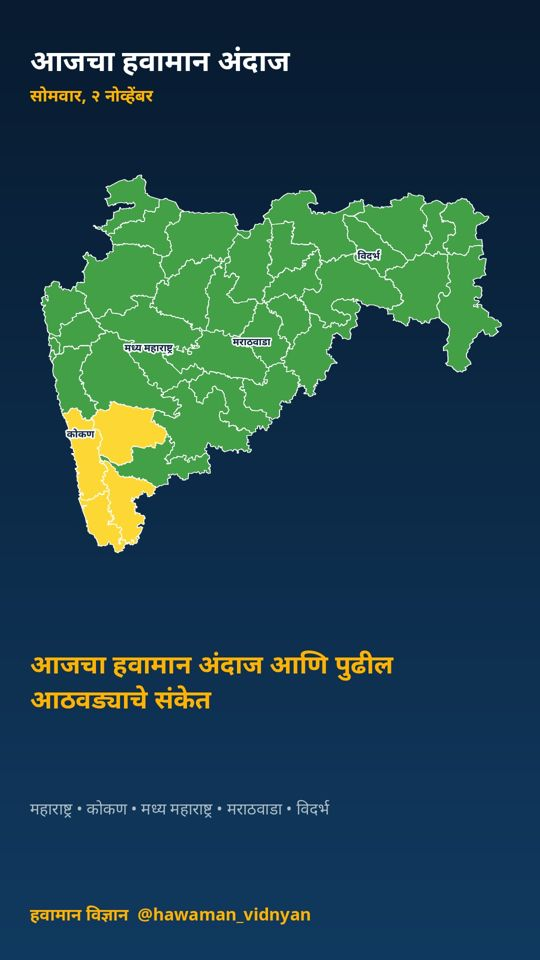
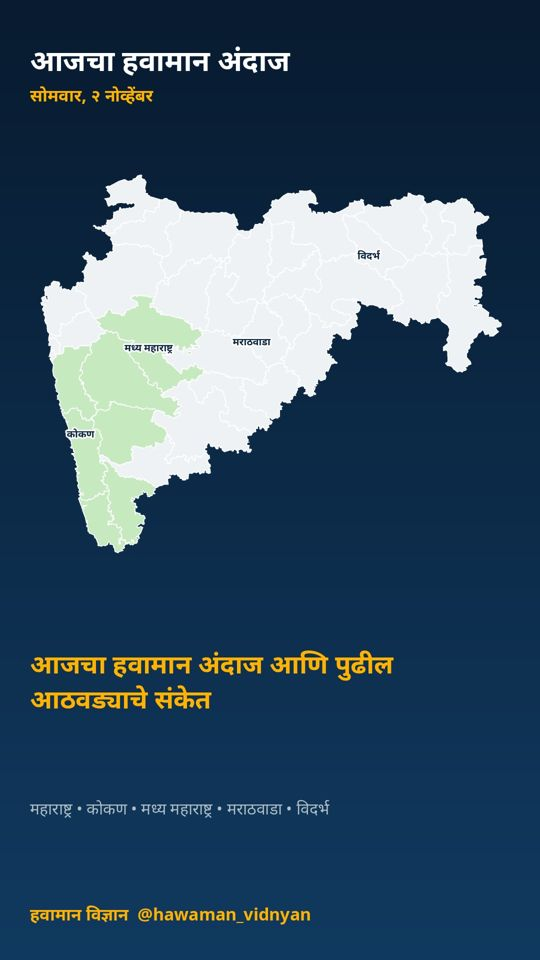
Alert 2026-11-02 (hawaman-vidnyan)

Changed region(s): [[0.0593, 0.1875, 0.9185, 0.5938]]

diff --git a/docs/alerts/2026-11-02-hawaman/index.html b/docs/alerts/2026-11-02-hawaman/index.html
@@ -12,11 +12,11 @@
     })();
   </script>
   <title data-mr="महाराष्ट्र हवामान | सोमवार, २ नोव्हें — हवामान इशारा">महाराष्ट्र हवामान | सोमवार, २ नोव्हें — Weather alert</title>
-  <meta name="description" content="Yellow alert: महाराष्ट्र हवामान | सोमवार, २ नोव्हें (2 November 2026)">
+  <meta name="description" content="Information analysis: महाराष्ट्र हवामान | सोमवार, २ नोव्हें (2 November 2026)">
   <link rel="preconnect" href="https://fonts.googleapis.com">
   <link rel="preconnect" href="https://fonts.gstatic.com" crossorigin>
   <link href="https://fonts.googleapis.com/css2?family=Mukta:wght@400;500;600;700&family=Noto+Serif+Devanagari:wght@600;700&display=swap" rel="stylesheet">
-  <link rel="stylesheet" href="../../static/css/style.css?v=5c94c5da">
+  <link rel="stylesheet" href="../../static/css/style.css?v=227c4792">
 </head>
 <body>
   <header class="site-header">
@@ -45,12 +45,12 @@
   <main class="wrap main">
 <article class="article">
   <p class="muted"><a href="../../alerts/index.html"><span class="l-en">← All alerts</span><span class="l-mr" lang="mr">← सर्व इशारे</span></a></p>
-  <div class="alert-banner level-yellow">
-    <span class="badge badge-yellow"><span class="l-en">Yellow alert · Be updated</span><span class="l-mr" lang="mr">पिवळा इशारा · अद्ययावत राहा</span></span>
+  <div class="alert-banner level-info">
+    <span class="badge badge-info"><span class="l-en">Information · analysis</span><span class="l-mr" lang="mr">माहितीपर विश्लेषण</span></span>
     <h1>महाराष्ट्र हवामान | सोमवार, २ नोव्हें</h1>
     <dl class="alert-facts">
       <div><dt><span class="l-en">Date</span><span class="l-mr" lang="mr">दिनांक</span></dt><dd><time datetime="2026-11-02"><span class="l-en">Monday, 2 November 2026</span><span class="l-mr" lang="mr">सोमवार, २ नोव्हेंबर २०२६</span></time></dd></div>
-<div><dt><span class="l-en">Valid</span><span class="l-mr" lang="mr">वैधता</span></dt><dd><span class="l-en">2 November 2026 — Short-range analysis (1–3 days)</span><span class="l-mr" lang="mr">२ नोव्हेंबर २०२६ — अल्पकालीन विश्लेषण (१–३ दिवस)</span></dd></div><div><dt><span class="l-en">Districts / regions</span><span class="l-mr" lang="mr">जिल्हे/भाग</span></dt><dd><span class="l-en">Sindhudurg</span><span class="l-mr" lang="mr">सिंधुदुर्ग</span>, <span class="l-en">Kolhapur</span><span class="l-mr" lang="mr">कोल्हापूर</span>, <span class="l-en">Ratnagiri</span><span class="l-mr" lang="mr">रत्नागिरी</span>, <span class="l-en">Satara</span><span class="l-mr" lang="mr">सातारा</span></dd></div><div><dt><span class="l-en">Hazards</span><span class="l-mr" lang="mr">धोके</span></dt><dd><span class="l-en">Thunderstorm &amp; lightning</span><span class="l-mr" lang="mr">मेघगर्जना व विजा</span>, <span class="l-en">Strong surface winds</span><span class="l-mr" lang="mr">सोसाट्याचा वारा</span></dd></div>    </dl>
+<div><dt><span class="l-en">Valid</span><span class="l-mr" lang="mr">वैधता</span></dt><dd><span class="l-en">2 November 2026 — Short-range analysis (1–3 days)</span><span class="l-mr" lang="mr">२ नोव्हेंबर २०२६ — अल्पकालीन विश्लेषण (१–३ दिवस)</span></dd></div><div><dt><span class="l-en">Districts / regions</span><span class="l-mr" lang="mr">जिल्हे/भाग</span></dt><dd><span class="l-en">Konkan</span><span class="l-mr" lang="mr">कोकण</span>, <span class="l-en">Madhya Maharashtra</span><span class="l-mr" lang="mr">मध्य महाराष्ट्र</span>, <span class="l-en">Marathwada</span><span class="l-mr" lang="mr">मराठवाडा</span>, <span class="l-en">Vidarbha</span><span class="l-mr" lang="mr">विदर्भ</span></dd></div>    </dl>
   </div>
   <section class="reel">
     <h2><span class="l-en">Today&#39;s visual analysis</span><span class="l-mr" lang="mr">आजचे दृश्य विश्लेषण</span> <span class="muted"><span class="l-en">(reel slides)</span><span class="l-mr" lang="mr">(रील स्लाइड्स)</span></span></h2>
@@ -100,9 +100,10 @@
     </div>
 </details>  </section>
   <p class="lang-note l-en">This page is written in Marathi.</p><div class="prose" lang="mr"><p><strong>अल्पकालीन विश्लेषण (१–३ दिवस)</strong> · वैयक्तिक विश्लेषणावर आधारित</p>
-<p>🟡 सिंधुदुर्ग, रत्नागिरी: सोसाट्याचा वारा व मेघगर्जना व विजा<br />
-🟡 कोल्हापूर, सातारा: मेघगर्जना व विजा<br />
-⛈ कोकण, म. महाराष्ट्र: काही ठिकाणी मेघगर्जनेसह हलका पाऊस<br />
+<p>🌦 कोकण: काही ठिकाणी हलका पाऊस<br />
+🌦 म. महाराष्ट्र: काही ठिकाणी हलका पाऊस<br />
+☀ मराठवाडा: कोरडे हवामान<br />
+☀ विदर्भ: कोरडे हवामान<br />
 🌀 पश्चिम-मध्य बंगालच्या उपसागरात चक्रीवादळसदृश प्रणाली आहे</p>
 <p><img src="../../static/images/alerts/2026-11-02/1_card.jpg" alt="अल्पकालीन विश्लेषण (१–३ दिवस)" /></p>
 <h3>हवामानामागचे कारण</h3>
@@ -111,20 +112,15 @@
 • पूर्व-मध्य अरबी समुद्रात कमी दाबाचे क्षेत्र आहे</p>
 <p>• ईशान्य भारतावर ३ नोव्हें दरम्यान कमी दाबाचे क्षेत्र तयार होण्याचे संकेत<br />
 • महाराष्ट्रावर सुमारे १.५ किमी उंचीवर पूर्वेकडून वारे</p>
-<p>🏙 आज शहरांचे कमाल/किमान तापमान (हवामान विभाग):<br />
-मुंबई ३४/२२, पुणे ३३/२२, नागपूर ३२/१९</p>
 <p>📌 निरीक्षणे:<br />
-🌡 काल सर्वाधिक: अमरावती ३४.६°<br />
-❄ नीचांकी: नागपूर १८.६°<br />
-☔ काल सर्वाधिक पाऊस: पुणे ४१ मिमी<br />
-🛰 उपग्रह: मध्य महाराष्ट्र भागावर ढगाळ आकाश; उर्वरित राज्यात आकाश बहुतांश निरभ्र (कोकण २८%, मध्य महाराष्ट्र ३४%, मराठवाडा २१%, विदर्भ ८% ढगाच्छादन)</p>
+🛰 उपग्रह: कोकण, मध्य महाराष्ट्र भागावर ढगाळ आकाश; उर्वरित राज्यात आकाश बहुतांश निरभ्र (कोकण ३३%, मध्य महाराष्ट्र ५३%, मराठवाडा २१%, विदर्भ ७% ढगाच्छादन)</p>
 <p>ℹ स्रोत: भारतीय हवामान विभाग; युरोपियन (ECMWF), अमेरिकन (GFS), जर्मन (ICON) मॉडेल<br />
 ⚠ हे मॉडेल-आधारित विश्लेषण आहे. अधिकृत इशाऱ्यांसाठी भारतीय हवामान विभाग (IMD) व स्थानिक प्रशासनाच्या सूचना पाहा.</p>
 <p><img src="../../static/images/alerts/2026-11-02/2_circulation_chart.jpg" alt="वाऱ्यांची स्थिती व दाब प्रणाली" /></p>
 <p><img src="../../static/images/alerts/2026-11-02/3_satellite_insat.jpg" alt="वाऱ्यांची स्थिती व दाब प्रणाली" /></p>
 <h2>सविस्तर हवामान विश्लेषण</h2>
 <h3>अल्पकालीन विश्लेषण (१–३ दिवस)</h3>
-<p>नमस्कार! आज सोमवार, २ नोव्हेंबर. पाहूया महाराष्ट्राचे हवामान विश्लेषण. भारतीय हवामान विभागाने सिंधुदुर्ग, रत्नागिरी जिल्ह्यांसाठी सोसाट्याचा वारा व मेघगर्जना व विजा संदर्भात पिवळा इशारा दिला आहे. भारतीय हवामान विभागाने कोल्हापूर, सातारा जिल्ह्यांसाठी मेघगर्जना व विजा संदर्भात पिवळा इशारा दिला आहे. कोकण: काही ठिकाणी मेघगर्जनेसह हलका पाऊस. कमाल तापमान सुमारे ३४ आणि किमान २२ अंश सेल्सिअस. मध्य महाराष्ट्र: काही ठिकाणी मेघगर्जनेसह हलका पाऊस. कमाल तापमान सुमारे ३३ आणि किमान २१ अंश सेल्सिअस. मराठवाडा: कोरडे हवामान. कमाल तापमान सुमारे ३२ आणि किमान २१ अंश सेल्सिअस. विदर्भ: कोरडे हवामान. कमाल तापमान सुमारे ३३ आणि किमान २० अंश सेल्सिअस. काल राज्यातील सर्वाधिक तापमान अमरावती येथे ३४.६ अंश (सरासरीपेक्षा ३.२° जास्त) नोंदले गेले. आता पाहूया हवामानामागचे कारण, म्हणजेच वाऱ्यांची स्थिती. पश्चिम-मध्य बंगालच्या उपसागरात चक्रीवादळसदृश प्रणाली आहे; प्रणाली पश्चिमेकडे (महाराष्ट्र) सरकण्याची शक्यता. या प्रणालीमुळे राज्यात ढगाळ हवामान व पावसाची शक्यता वाढू शकते. पूर्व-मध्य अरबी समुद्रात कमी दाबाचे क्षेत्र आहे. ईशान्य भारतावर ३ नोव्हें दरम्यान कमी दाबाचे क्षेत्र तयार होण्याचे संकेत. महाराष्ट्रावर सुमारे १.५ किमी उंचीवर पूर्वेकडून वारे.</p>
+<p>नमस्कार! आज सोमवार, २ नोव्हेंबर. पाहूया महाराष्ट्राचे हवामान विश्लेषण. कोकण: काही ठिकाणी हलका पाऊस. कमाल तापमान सुमारे ३४ आणि किमान २२ अंश सेल्सिअस. मध्य महाराष्ट्र: काही ठिकाणी हलका पाऊस. कमाल तापमान सुमारे ३३ आणि किमान २१ अंश सेल्सिअस. मराठवाडा: कोरडे हवामान. कमाल तापमान सुमारे ३२ आणि किमान २१ अंश सेल्सिअस. विदर्भ: कोरडे हवामान. कमाल तापमान सुमारे ३३ आणि किमान २० अंश सेल्सिअस. आता पाहूया हवामानामागचे कारण, म्हणजेच वाऱ्यांची स्थिती. पश्चिम-मध्य बंगालच्या उपसागरात चक्रीवादळसदृश प्रणाली आहे; प्रणाली पश्चिमेकडे (महाराष्ट्र) सरकण्याची शक्यता. या प्रणालीमुळे राज्यात ढगाळ हवामान व पावसाची शक्यता वाढू शकते. पूर्व-मध्य अरबी समुद्रात कमी दाबाचे क्षेत्र आहे. ईशान्य भारतावर ३ नोव्हें दरम्यान कमी दाबाचे क्षेत्र तयार होण्याचे संकेत. महाराष्ट्रावर सुमारे १.५ किमी उंचीवर पूर्वेकडून वारे.</p>
 <h3>मध्यम कालावधी विश्लेषण (४–१० दिवस)</h3>
 <p>आता पुढील आठवड्याचा, म्हणजे ५–११ नोव्हें या काळाचे विश्लेषण. युरोपियन हवामान केंद्राच्या ५१ वेगवेगळ्या संभाव्य मॉडेल-परिणामांवर आधारित. कोकण: पावसाची शक्यता कमी. मध्य महाराष्ट्र: पावसाची शक्यता कमी. मराठवाडा: पावसाची शक्यता कमी. विदर्भ: मुख्यतः कोरडे.  किमान तापमान २° ने घटेल; पहाटे गारवा वाढेल. या काळातील वाऱ्यांची स्थिती: ५ नोव्हें रोजी महाराष्ट्रावर असलेली कमी दाबाचे क्षेत्र नैऋत्येकडे (पूर्व-मध्य अरबी समुद्र) सरकण्याची शक्यता. या प्रणालीमुळे राज्यात ढगाळ हवामान व पावसाची शक्यता वाढू शकते. महाराष्ट्रावर १० नोव्हें दरम्यान कमी दाबाचे क्षेत्र तयार होण्याचे संकेत; प्रणाली नैऋत्येकडे (पूर्व-मध्य अरबी समुद्र) सरकण्याची शक्यता. नैऋत्य बंगालच्या उपसागरात ९ नोव्हें दरम्यान कमी दाबाचे क्षेत्र तयार होण्याचे संकेत; प्रणाली ईशान्येकडे (वायव्य बंगालचा उपसागर) सरकण्याची शक्यता. महाराष्ट्रावर सुमारे १.५ किमी उंचीवर ईशान्येकडून कोरडे वारे; हवेच्या मधल्या थरात आर्द्रता फक्त ३०% असल्याने ढग फारसे तयार होत नाहीत. पुढील काळात हवेच्या मधल्या थरातील बाष्प कमी होत आहे.</p>
 <h3>विस्तारित विश्लेषण (२–४ आठवडे)</h3>

diff --git a/docs/index.html b/docs/index.html
@@ -16,7 +16,7 @@
   <link rel="preconnect" href="https://fonts.googleapis.com">
   <link rel="preconnect" href="https://fonts.gstatic.com" crossorigin>
   <link href="https://fonts.googleapis.com/css2?family=Mukta:wght@400;500;600;700&family=Noto+Serif+Devanagari:wght@600;700&display=swap" rel="stylesheet">
-  <link rel="stylesheet" href="./static/css/style.css?v=5c94c5da">
+  <link rel="stylesheet" href="./static/css/style.css?v=227c4792">
 </head>
 <body>
   <header class="site-header">
@@ -45,7 +45,7 @@
   <main class="wrap main">
 <section class="hero">
   <div class="hero-photo">
-    <img src="./static/images/profile.jpg?v=5c94c5da" alt="Arvind Pagire" width="200" height="200">
+    <img src="./static/images/profile.jpg?v=227c4792" alt="Arvind Pagire" width="200" height="200">
   </div>
   <div class="hero-text">
     <p class="eyebrow"><span class="l-en">Meteorologist · AI-based weather prediction · Hybrid modelling</span><span class="l-mr" lang="mr">हवामानशास्त्रज्ञ · AI-आधारित हवामान अंदाज · हायब्रिड मॉडेलिंग</span></p>
@@ -73,13 +73,13 @@
   </div>
   <p class="imd-note"><span class="l-en">Disclaimer: for weather alerts and warnings I follow the India Meteorological Department (IMD). The alert colour and warnings shown here are taken from IMD&#39;s official district-wise warnings; the rest is my own analysis for information only. For official forecasts and warnings, please follow</span><span class="l-mr" lang="mr">अस्वीकरण: हवामान इशाऱ्यांसाठी मी भारतीय हवामान विभागाचे (IMD) अनुसरण करतो. येथे दाखवलेला इशाऱ्याचा रंग व इशारे हे IMD च्या अधिकृत जिल्हानिहाय इशाऱ्यांवरून घेतले आहेत; उर्वरित माहिती हे केवळ माहितीसाठी केलेले माझे वैयक्तिक विश्लेषण आहे. अधिकृत अंदाज व इशाऱ्यांसाठी कृपया</span>
     <a href="https://mausam.imd.gov.in" rel="noopener" target="_blank"><span class="l-en">IMD (mausam.imd.gov.in)</span><span class="l-mr" lang="mr">भारतीय हवामान विभागाचे (mausam.imd.gov.in)</span></a><span class="l-en">.</span><span class="l-mr" lang="mr"> अनुसरण करा.</span></p>
-    <article class="alert-card level-yellow">
+    <article class="alert-card level-info">
   <div class="alert-card-top">
-    <span class="badge badge-yellow"><span class="l-en">Yellow alert · Be updated</span><span class="l-mr" lang="mr">पिवळा इशारा · अद्ययावत राहा</span></span>
+    <span class="badge badge-info"><span class="l-en">Information · analysis</span><span class="l-mr" lang="mr">माहितीपर विश्लेषण</span></span>
     <time datetime="2026-11-02" class="muted"><span class="l-en">Monday, 2 November 2026</span><span class="l-mr" lang="mr">सोमवार, २ नोव्हेंबर २०२६</span></time>
   </div>
   <h3><a href="./alerts/2026-11-02-hawaman/index.html">महाराष्ट्र हवामान | सोमवार, २ नोव्हें</a></h3>
-<p class="alert-meta"><strong><span class="l-en">Districts / regions:</span><span class="l-mr" lang="mr">जिल्हे/भाग:</span></strong> <span class="l-en">Sindhudurg</span><span class="l-mr" lang="mr">सिंधुदुर्ग</span>, <span class="l-en">Kolhapur</span><span class="l-mr" lang="mr">कोल्हापूर</span>, <span class="l-en">Ratnagiri</span><span class="l-mr" lang="mr">रत्नागिरी</span>, <span class="l-en">Satara</span><span class="l-mr" lang="mr">सातारा</span></p><p class="alert-meta"><strong><span class="l-en">Hazards:</span><span class="l-mr" lang="mr">धोके:</span></strong> <span class="l-en">Thunderstorm &amp; lightning</span><span class="l-mr" lang="mr">मेघगर्जना व विजा</span>, <span class="l-en">Strong surface winds</span><span class="l-mr" lang="mr">सोसाट्याचा वारा</span></p><p class="alert-meta"><strong><span class="l-en">Valid:</span><span class="l-mr" lang="mr">वैधता:</span></strong> <span class="l-en">2 November 2026 — Short-range analysis (1–3 days)</span><span class="l-mr" lang="mr">२ नोव्हेंबर २०२६ — अल्पकालीन विश्लेषण (१–३ दिवस)</span></p></article>
+<p class="alert-meta"><strong><span class="l-en">Districts / regions:</span><span class="l-mr" lang="mr">जिल्हे/भाग:</span></strong> <span class="l-en">Konkan</span><span class="l-mr" lang="mr">कोकण</span>, <span class="l-en">Madhya Maharashtra</span><span class="l-mr" lang="mr">मध्य महाराष्ट्र</span>, <span class="l-en">Marathwada</span><span class="l-mr" lang="mr">मराठवाडा</span>, <span class="l-en">Vidarbha</span><span class="l-mr" lang="mr">विदर्भ</span></p><p class="alert-meta"><strong><span class="l-en">Valid:</span><span class="l-mr" lang="mr">वैधता:</span></strong> <span class="l-en">2 November 2026 — Short-range analysis (1–3 days)</span><span class="l-mr" lang="mr">२ नोव्हेंबर २०२६ — अल्पकालीन विश्लेषण (१–३ दिवस)</span></p></article>
     <p class="stale-note muted" data-date="2026-11-02" hidden>
       <span class="l-en">Note: this alert is from 2 November 2026; today&#39;s alert has not been published yet.</span><span class="l-mr" lang="mr">टीप: हा इशारा २ नोव्हेंबर २०२६ रोजीचा आहे; आजचा इशारा अद्याप प्रसिद्ध झालेला नाही.</span></p>
   <p class="follow"><a href="https://x.com/arvind_weathLAB" rel="noopener" target="_blank">𝕏 <span class="l-en">Daily Maharashtra weather updates:</span><span class="l-mr" lang="mr">दैनंदिन महाराष्ट्र हवामान अपडेट:</span> @arvind_weathLAB</a></p>

diff --git a/docs/alerts/index.html b/docs/alerts/index.html
@@ -16,7 +16,7 @@
   <link rel="preconnect" href="https://fonts.googleapis.com">
   <link rel="preconnect" href="https://fonts.gstatic.com" crossorigin>
   <link href="https://fonts.googleapis.com/css2?family=Mukta:wght@400;500;600;700&family=Noto+Serif+Devanagari:wght@600;700&display=swap" rel="stylesheet">
-  <link rel="stylesheet" href="../static/css/style.css?v=5c94c5da">
+  <link rel="stylesheet" href="../static/css/style.css?v=227c4792">
 </head>
 <body>
   <header class="site-header">
@@ -69,13 +69,13 @@
 </section>
 
 <div class="stack">
-<article class="alert-card level-yellow">
+<article class="alert-card level-info">
   <div class="alert-card-top">
-    <span class="badge badge-yellow"><span class="l-en">Yellow alert · Be updated</span><span class="l-mr" lang="mr">पिवळा इशारा · अद्ययावत राहा</span></span>
+    <span class="badge badge-info"><span class="l-en">Information · analysis</span><span class="l-mr" lang="mr">माहितीपर विश्लेषण</span></span>
     <time datetime="2026-11-02" class="muted"><span class="l-en">Monday, 2 November 2026</span><span class="l-mr" lang="mr">सोमवार, २ नोव्हेंबर २०२६</span></time>
   </div>
   <h3><a href="../alerts/2026-11-02-hawaman/index.html">महाराष्ट्र हवामान | सोमवार, २ नोव्हें</a></h3>
-<p class="alert-meta"><strong><span class="l-en">Districts / regions:</span><span class="l-mr" lang="mr">जिल्हे/भाग:</span></strong> <span class="l-en">Sindhudurg</span><span class="l-mr" lang="mr">सिंधुदुर्ग</span>, <span class="l-en">Kolhapur</span><span class="l-mr" lang="mr">कोल्हापूर</span>, <span class="l-en">Ratnagiri</span><span class="l-mr" lang="mr">रत्नागिरी</span>, <span class="l-en">Satara</span><span class="l-mr" lang="mr">सातारा</span></p><p class="alert-meta"><strong><span class="l-en">Hazards:</span><span class="l-mr" lang="mr">धोके:</span></strong> <span class="l-en">Thunderstorm &amp; lightning</span><span class="l-mr" lang="mr">मेघगर्जना व विजा</span>, <span class="l-en">Strong surface winds</span><span class="l-mr" lang="mr">सोसाट्याचा वारा</span></p><p class="alert-meta"><strong><span class="l-en">Valid:</span><span class="l-mr" lang="mr">वैधता:</span></strong> <span class="l-en">2 November 2026 — Short-range analysis (1–3 days)</span><span class="l-mr" lang="mr">२ नोव्हेंबर २०२६ — अल्पकालीन विश्लेषण (१–३ दिवस)</span></p></article><article class="alert-card level-info">
+<p class="alert-meta"><strong><span class="l-en">Districts / regions:</span><span class="l-mr" lang="mr">जिल्हे/भाग:</span></strong> <span class="l-en">Konkan</span><span class="l-mr" lang="mr">कोकण</span>, <span class="l-en">Madhya Maharashtra</span><span class="l-mr" lang="mr">मध्य महाराष्ट्र</span>, <span class="l-en">Marathwada</span><span class="l-mr" lang="mr">मराठवाडा</span>, <span class="l-en">Vidarbha</span><span class="l-mr" lang="mr">विदर्भ</span></p><p class="alert-meta"><strong><span class="l-en">Valid:</span><span class="l-mr" lang="mr">वैधता:</span></strong> <span class="l-en">2 November 2026 — Short-range analysis (1–3 days)</span><span class="l-mr" lang="mr">२ नोव्हेंबर २०२६ — अल्पकालीन विश्लेषण (१–३ दिवस)</span></p></article><article class="alert-card level-info">
   <div class="alert-card-top">
     <span class="badge badge-info"><span class="l-en">Information · analysis</span><span class="l-mr" lang="mr">माहितीपर विश्लेषण</span></span>
     <time datetime="2026-11-01" class="muted"><span class="l-en">Sunday, 1 November 2026</span><span class="l-mr" lang="mr">रविवार, १ नोव्हेंबर २०२६</span></time>

diff --git a/docs/alerts/2026-10-25-hawaman/index.html b/docs/alerts/2026-10-25-hawaman/index.html
@@ -16,7 +16,7 @@
   <link rel="preconnect" href="https://fonts.googleapis.com">
   <link rel="preconnect" href="https://fonts.gstatic.com" crossorigin>
   <link href="https://fonts.googleapis.com/css2?family=Mukta:wght@400;500;600;700&family=Noto+Serif+Devanagari:wght@600;700&display=swap" rel="stylesheet">
-  <link rel="stylesheet" href="../../static/css/style.css?v=5c94c5da">
+  <link rel="stylesheet" href="../../static/css/style.css?v=227c4792">
 </head>
 <body>
   <header class="site-header">

diff --git a/docs/alerts/2026-10-26-hawaman/index.html b/docs/alerts/2026-10-26-hawaman/index.html
@@ -16,7 +16,7 @@
   <link rel="preconnect" href="https://fonts.googleapis.com">
   <link rel="preconnect" href="https://fonts.gstatic.com" crossorigin>
   <link href="https://fonts.googleapis.com/css2?family=Mukta:wght@400;500;600;700&family=Noto+Serif+Devanagari:wght@600;700&display=swap" rel="stylesheet">
-  <link rel="stylesheet" href="../../static/css/style.css?v=5c94c5da">
+  <link rel="stylesheet" href="../../static/css/style.css?v=227c4792">
 </head>
 <body>
   <header class="site-header">

diff --git a/docs/alerts/2026-10-27-hawaman/index.html b/docs/alerts/2026-10-27-hawaman/index.html
@@ -16,7 +16,7 @@
   <link rel="preconnect" href="https://fonts.googleapis.com">
   <link rel="preconnect" href="https://fonts.gstatic.com" crossorigin>
   <link href="https://fonts.googleapis.com/css2?family=Mukta:wght@400;500;600;700&family=Noto+Serif+Devanagari:wght@600;700&display=swap" rel="stylesheet">
-  <link rel="stylesheet" href="../../static/css/style.css?v=5c94c5da">
+  <link rel="stylesheet" href="../../static/css/style.css?v=227c4792">
 </head>
 <body>
   <header class="site-header">

diff --git a/docs/alerts/2026-10-28-hawaman/index.html b/docs/alerts/2026-10-28-hawaman/index.html
@@ -16,7 +16,7 @@
   <link rel="preconnect" href="https://fonts.googleapis.com">
   <link rel="preconnect" href="https://fonts.gstatic.com" crossorigin>
   <link href="https://fonts.googleapis.com/css2?family=Mukta:wght@400;500;600;700&family=Noto+Serif+Devanagari:wght@600;700&display=swap" rel="stylesheet">
-  <link rel="stylesheet" href="../../static/css/style.css?v=5c94c5da">
+  <link rel="stylesheet" href="../../static/css/style.css?v=227c4792">
 </head>
 <body>
   <header class="site-header">

diff --git a/docs/alerts/2026-10-29-hawaman/index.html b/docs/alerts/2026-10-29-hawaman/index.html
@@ -16,7 +16,7 @@
   <link rel="preconnect" href="https://fonts.googleapis.com">
   <link rel="preconnect" href="https://fonts.gstatic.com" crossorigin>
   <link href="https://fonts.googleapis.com/css2?family=Mukta:wght@400;500;600;700&family=Noto+Serif+Devanagari:wght@600;700&display=swap" rel="stylesheet">
-  <link rel="stylesheet" href="../../static/css/style.css?v=5c94c5da">
+  <link rel="stylesheet" href="../../static/css/style.css?v=227c4792">
 </head>
 <body>
   <header class="site-header">

diff --git a/docs/alerts/2026-10-30-hawaman/index.html b/docs/alerts/2026-10-30-hawaman/index.html
@@ -16,7 +16,7 @@
   <link rel="preconnect" href="https://fonts.googleapis.com">
   <link rel="preconnect" href="https://fonts.gstatic.com" crossorigin>
   <link href="https://fonts.googleapis.com/css2?family=Mukta:wght@400;500;600;700&family=Noto+Serif+Devanagari:wght@600;700&display=swap" rel="stylesheet">
-  <link rel="stylesheet" href="../../static/css/style.css?v=5c94c5da">
+  <link rel="stylesheet" href="../../static/css/style.css?v=227c4792">
 </head>
 <body>
   <header class="site-header">

diff --git a/docs/alerts/2026-10-31-hawaman/index.html b/docs/alerts/2026-10-31-hawaman/index.html
@@ -16,7 +16,7 @@
   <link rel="preconnect" href="https://fonts.googleapis.com">
   <link rel="preconnect" href="https://fonts.gstatic.com" crossorigin>
   <link href="https://fonts.googleapis.com/css2?family=Mukta:wght@400;500;600;700&family=Noto+Serif+Devanagari:wght@600;700&display=swap" rel="stylesheet">
-  <link rel="stylesheet" href="../../static/css/style.css?v=5c94c5da">
+  <link rel="stylesheet" href="../../static/css/style.css?v=227c4792">
 </head>
 <body>
   <header class="site-header">

diff --git a/docs/alerts/2026-11-01-hawaman/index.html b/docs/alerts/2026-11-01-hawaman/index.html
@@ -16,7 +16,7 @@
   <link rel="preconnect" href="https://fonts.googleapis.com">
   <link rel="preconnect" href="https://fonts.gstatic.com" crossorigin>
   <link href="https://fonts.googleapis.com/css2?family=Mukta:wght@400;500;600;700&family=Noto+Serif+Devanagari:wght@600;700&display=swap" rel="stylesheet">
-  <link rel="stylesheet" href="../../static/css/style.css?v=5c94c5da">
+  <link rel="stylesheet" href="../../static/css/style.css?v=227c4792">
 </head>
 <body>
   <header class="site-header">

diff --git a/docs/alerts/upper-air/index.html b/docs/alerts/upper-air/index.html
@@ -16,7 +16,7 @@
   <link rel="preconnect" href="https://fonts.googleapis.com">
   <link rel="preconnect" href="https://fonts.gstatic.com" crossorigin>
   <link href="https://fonts.googleapis.com/css2?family=Mukta:wght@400;500;600;700&family=Noto+Serif+Devanagari:wght@600;700&display=swap" rel="stylesheet">
-  <link rel="stylesheet" href="../../static/css/style.css?v=5c94c5da">
+  <link rel="stylesheet" href="../../static/css/style.css?v=227c4792">
 </head>
 <body>
   <header class="site-header">
